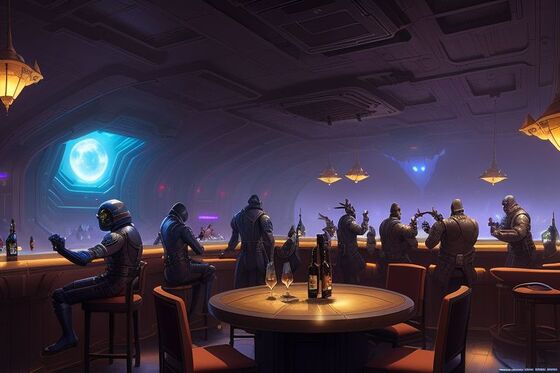
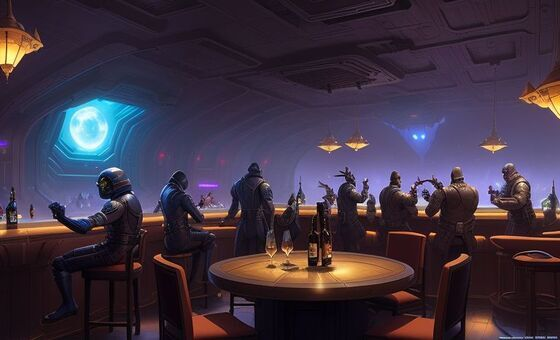
update coalition.shopping

diff --git a/myplugins/coalition.shopping/README.md b/myplugins/coalition.shopping/README.md
@@ -11,6 +11,9 @@ To start the mission to enable these outfitters and shipyards, you have to join 
 <br>
 Changelog:<br>
 <br>
+2024-11-09<br>
+added @2x images<br>
+<br>
 2024-09-15<br>
 some error fixing, adjustments and text improvements (thx to timeout.fu)<br>
 more text adjustments (from TheGiraffe3)<br>

diff --git a/myplugins/navy.licenses/README.md b/myplugins/navy.licenses/README.md
@@ -12,6 +12,10 @@ You get the following licenses: Navy license, Navy Auxiliary license, Navy Cruis
 <br>
 Changelog:<br>
 <br>
+2024-11-09<br>
+corrected scene size<br>
+added @2x images <br>
+<br>
 2024-06-07<br>
 text corrections (thx to TheGiraffe3)<br>
 <br>

diff --git a/myplugins/snowfeather.robotics/README.md b/myplugins/snowfeather.robotics/README.md
@@ -13,6 +13,9 @@ The new buyable worker androids are twice as expensive as the original ones, and
 <br>
 Changelog:<br>
 <br>
+2024-11-09<br>
+added @2x images<br>
+<br>
 2024-05-03<br>
 added 6 combat androids<br>
 added new outfit category "Androids"<br>
